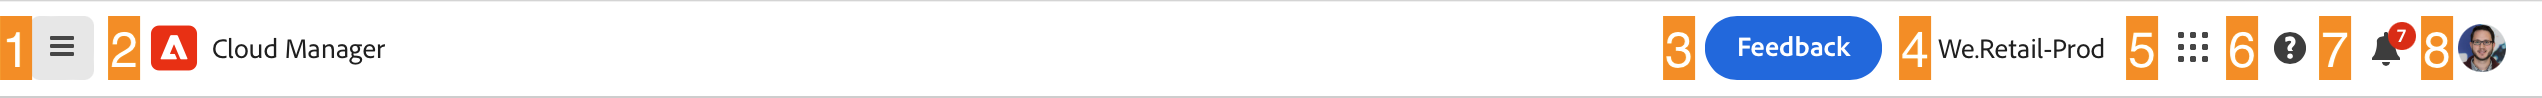
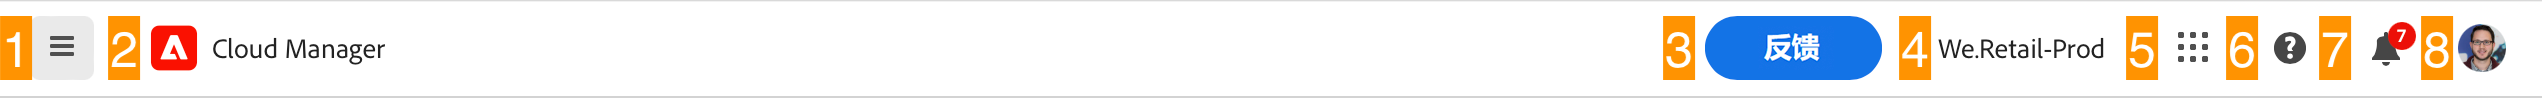
Updated by task 'AUTO_HANDOFF_1722003274909'  Changes for core/source commit https://git.corp.adobe.com/AdobeDocs/experience-manager-cloud-manager.en/commit/8f08c36aaedc05e1a9b75daf674b326cdaec6c25

diff --git a/help/getting-started/navigation.md b/help/getting-started/navigation.md
@@ -3,9 +3,9 @@ title: 浏览 Cloud Manager UI
 description: 了解 Cloud Manager UI 的组织方式，以及如何管理您的程序和环境。
 exl-id: 9c1545ce-1c6d-417f-a6f4-fe53caef3433
 source-git-commit: d4d9a9f38c5a969f276140dca98731c670547a3d
-workflow-type: tm+mt
+workflow-type: ht
 source-wordcount: '1439'
-ht-degree: 80%
+ht-degree: 100%
 
 ---
 
@@ -28,13 +28,13 @@ Cloud manage UI 主要由两个图形界面组成：
 “我的程序”控制台提供了对您在所选组织中有权访问的所有程序的概述。它由几个部分组成。
 
 1. 用于组织选择、警报和帐户设置的[工具栏](#toolbars-my-programs-toolbars)
-1. 允许您切换程序当前视图的选项卡。
-   * 选择&#x200B;**我的项目群**&#x200B;视图的&#x200B;**主页**&#x200B;视图（默认），该视图包含所有项目群的概述
-   * 访问许可证仪表板的&#x200B;**许可证**。 许可证仪表板仅适用于AEM as a Cloud Service程序，而不适用于AMS程序。
-      * 要确定您的程序具有的服务类型（AMS或AEMaaCS），请参阅本文档的[程序卡部分](#program-cards)。
-   * 请注意，这些选项卡默认为已关闭，可以使用[Cloud Manager标题中的汉堡菜单显示。](#cloud-manager-header)
-1. [行动号召和统计数据](#cta-statistics)，了解最近活动的概览
-1. [**我的项目群**&#x200B;部分](#my-programs-section)，其中包含您所有项目的概述
+1. 选项卡允许您切换程序的当前视图。
+   * **主页** 视图（默认），选择 **我的程序** 视图，其中显示所有项目的概览
+   * **访问许可证仪表板的许可证**。许可证仪表板仅适用于 AEM as a Cloud Service 计划，而不适用于 AMS 计划。
+      * 要确定您的程序所具有的服务类型（AMS 或 AEMaaCS），请参阅本文档的 [程序卡部分](#program-cards) 。
+   * 请注意，选项卡默认为关闭，可以使用 [Cloud Manager 标题中的汉堡菜单显示。](#cloud-manager-header)
+1. [操作号召和统计数据](#cta-statistics)，用于概述您最近的活动
+1. [**我的程序** 部分](#my-programs-section) ，其中概述了您的所有计划
 1. [快速链接](#quick-links)可用于轻松访问相关资源
 
 >[!TIP]
@@ -51,9 +51,9 @@ Cloud manage UI 主要由两个图形界面组成：
 
 ![Experience Cloud 标头](assets/experience-cloud-header.png)
 
-1. 汉堡菜单提供对选项卡的访问权限，这些选项卡可以引导您访问单个计划中的特定部分，或者根据上下文在许可证仪表板和&#x200B;**[我的程序](#my-programs-console)**&#x200B;控制台之间切换。
-   * 许可证仪表板仅适用于AEM as a Cloud Service程序，而不适用于AMS程序。
-   * 要确定您的程序具有的服务类型（AMS或AEMaaCS），请参阅本文档的[程序卡部分](#program-cards)。
+1. 汉堡菜单可以访问选项卡，可以将您带到单个程序的特定部分，或者根据上下文在许可证仪表板和 **[我的程序](#my-programs-console)** 控制台之间切换。
+   * 许可证仪表板仅适用于 AEM as a Cloud Service 计划，而不适用于 AMS 计划。
+   * 要确定您的程序所具有的服务类型（AMS 或 AEMaaCS），请参阅本文档的 [程序卡部分](#program-cards) 。
 1. 无论您在浏览 Cloud Manager 的哪个分区，Cloud Manager 按钮都会带您返回到 Cloud Manager 中的“我的程序”控制台。
 1. 点击或单击“反馈”按钮，向 Adobe 提供有关 Cloud Manager 的反馈。
 1. 组织选择器会显示您当前登录的组织（在此示例中为 Foundation Internal）。如果您的 Adobe ID 与多个组织关联，请点击或单击以切换到另一个组织。
@@ -69,13 +69,13 @@ Cloud manage UI 主要由两个图形界面组成：
 ![程序工具栏](assets/program-toolbar.png)
 
 1. 程序选择器会打开一个下拉菜单，您可以在其中快速选择其他程序或采取适合上下文的操作，例如创建一个新程序
-1. 通过“快速入门”链接，您可以访问[入门文档历程](https://experienceleague.adobe.com/en/docs/experience-manager-cloud-service/content/onboarding/journey/overview)，以便快速开始使用 Cloud Manager。
+1. 通过“快速入门”链接，您可以访问[入门文档历程](https://experienceleague.adobe.com/zh-hans/docs/experience-manager-cloud-service/content/onboarding/journey/overview)，以便快速开始使用 Cloud Manager。
    * 请注意，入门历程是为 AEM as a Cloud Service 而非 AMS 云服务设计的，但许多概念是相同的。
 1. 操作按钮可以提供适合上下文的操作，例如创建新程序。
 
-### 行动号召和统计数据 {#cta-statistics}
+### 操作号召和统计数据 {#cta-statistics}
 
-行动号召和统计部分提供组织的汇总数据，例如，如果您已成功设置程序，则可能会显示过去90天的活动统计数据，包括：
+操作号召和统计信息数据部分提供了您组织的汇总数据，例如，如果您已成功设置了程序，则可能会显示过去 90 天的活动统计数据，其中包括：
 
 * [部署](/help/using/code-deployment.md)次数
 * 已发现的[代码质量问题](/help/using/code-quality-testing.md)数量
@@ -83,9 +83,9 @@ Cloud manage UI 主要由两个图形界面组成：
 
 或者，如果您刚刚开始建立您的组织，则可能会有关于后续步骤或文档资源的提示。
 
-### “我的项目群”部分 {#my-programs-section}
+### 我的程序部分 {#my-programs-section}
 
-“我的程序”控制台的主要内容是&#x200B;**我的程序**&#x200B;部分，该部分将您的程序列为单独的卡片。 点击或单击信息卡即可访问相关程序的&#x200B;**程序概述**&#x200B;页面，以了解有关该程序的详细信息。
+“我的程序”控制台的主要内容是&#x200B;**我的程序**&#x200B;部分，其中将您的程序列为单独的卡片。点击或单击信息卡即可访问相关程序的&#x200B;**程序概述**&#x200B;页面，以了解有关该程序的详细信息。
 
 >[!NOTE]
 >
@@ -103,7 +103,7 @@ Cloud manage UI 主要由两个图形界面组成：
 * 网格视图（默认）
 * 列表视图
 
-#### 程序卡 {#program-cards}
+#### 程序信息卡 {#program-cards}
 
 每个程序都会由一张信息卡（或表格中的一行）来表示，其中提供该程序的概述以及采取操作的快速链接。
 
@@ -112,8 +112,8 @@ Cloud manage UI 主要由两个图形界面组成：
 * 程序图像（如果进行了配置）
 * 项目名称
 * 服务类型：
-   * 用于AMS程序的&#x200B;**Experience Manager**
-   * **Experience Manager云**，用于[AEM as a Cloud Service程序](https://experienceleague.adobe.com/en/docs/experience-manager-cloud-service/content/implementing/home)
+   * **Experience Manager** 适用于 AMS 计划
+   * **Experience Manager Cloud** 适用于 [AEM as a Cloud Service 计划](https://experienceleague.adobe.com/zh-hans/docs/experience-manager-cloud-service/content/implementing/home)
 * 状态
 * 已配置的解决方案
 * 创建日期
@@ -137,7 +137,7 @@ Cloud manage UI 主要由两个图形界面组成：
 
 ## 程序概述窗口 {#program-overview}
 
-在&#x200B;[**我的程序**&#x200B;控制台](#my-programs-console)中选择程序后，您将转到程序概述。
+当您在&#x200B;[**“我的程序”**&#x200B;控制台中选择一个程序后，](#my-programs-console)您就会进入“程序概述”。
 
 ![程序概述](assets/program-overview.png)
 

diff --git a/help/release-notes/current.md b/help/release-notes/current.md
@@ -4,9 +4,9 @@ description: 这些是 Cloud Manager 2024.7.0 版的发行说明。
 feature: Release Information
 exl-id: 2d38abb1-cfc7-44a9-b303-b555e2827eea
 source-git-commit: 87c603a89b99f6984828280cba2041da8c72e839
-workflow-type: tm+mt
+workflow-type: ht
 source-wordcount: '238'
-ht-degree: 95%
+ht-degree: 100%
 
 ---
 
@@ -28,7 +28,7 @@ ht-degree: 95%
 * [生产管道](/help/using/production-pipelines.md#adding-production-pipeline)和[非生产管道](/help/using/non-production-pipelines.md#adding-non-production-pipeline) 触发 **当 Git 发生更改** 以在提交时启动管道，现在可用于 [ 私人存储库](/help/managing-code/private-repositories.md)。
 * 预生产管道只能手动触发，不能配置为 **当 Git 发生更改**。
 * 对于仅限生产的管道，可推广执行列表包括那些具有比生产环境中已部署的工件版本更高的工件版本的执行。
-* [AEM项目原型](https://experienceleague.adobe.com/docs/experience-manager-core-components/using/developing/archetype/overview.html)已更新为[版本49。](https://github.com/adobe/aem-project-archetype/tree/aem-project-archetype-49)
+* [AEM 项目原型](https://experienceleague.adobe.com/docs/experience-manager-core-components/using/developing/archetype/overview.html)已更新到[版本 49。](https://github.com/adobe/aem-project-archetype/tree/aem-project-archetype-49)
 
 
 ## 早期采用计划 {#early-adoption}
